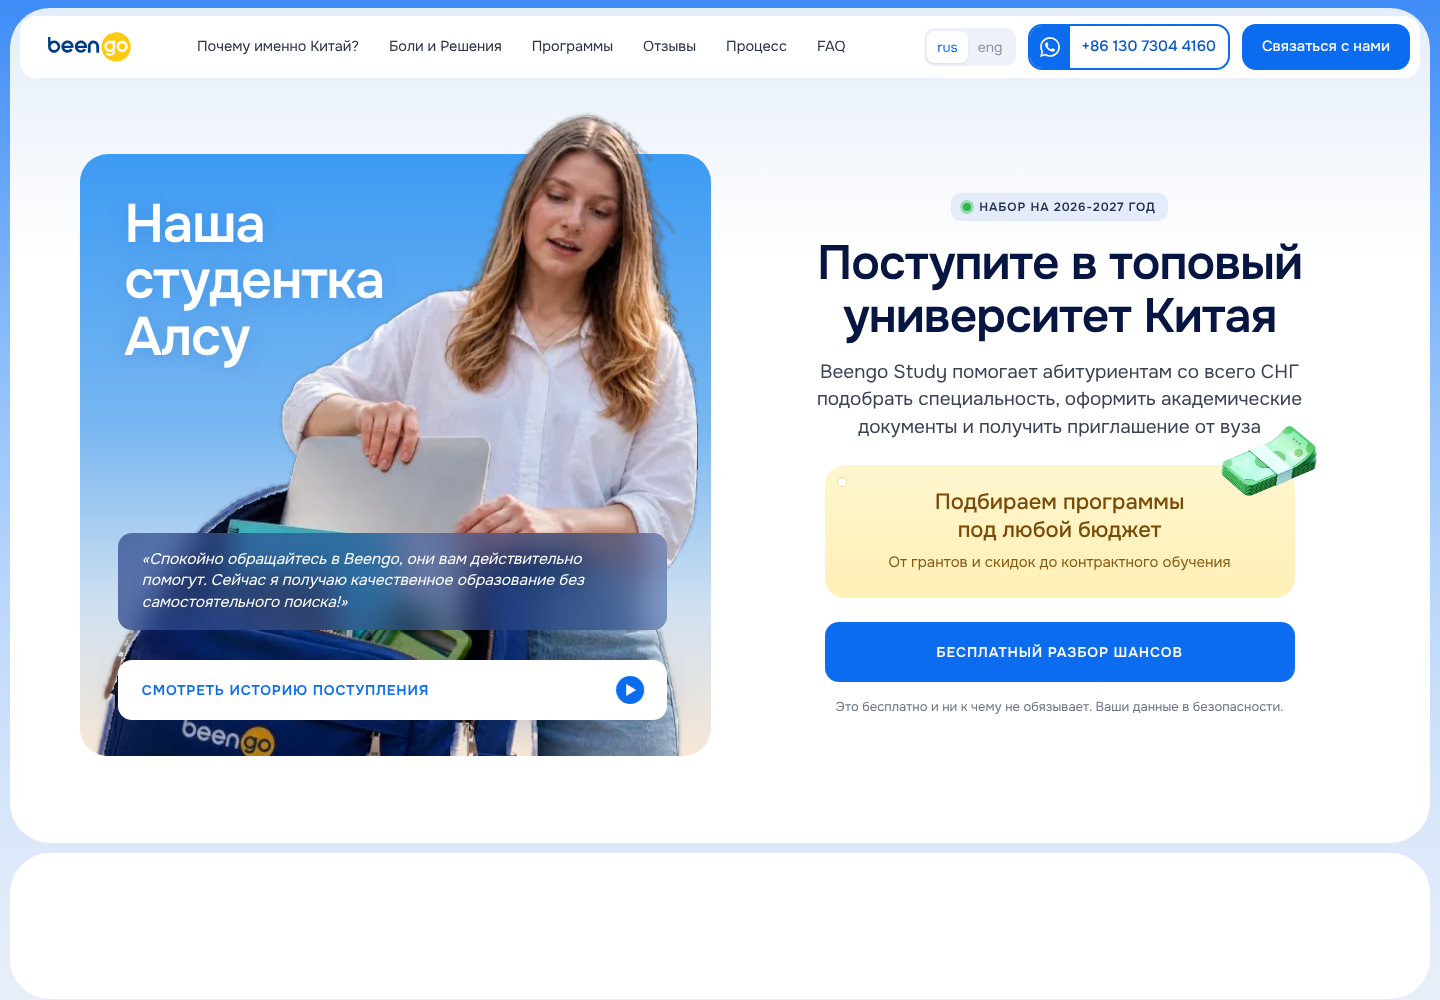
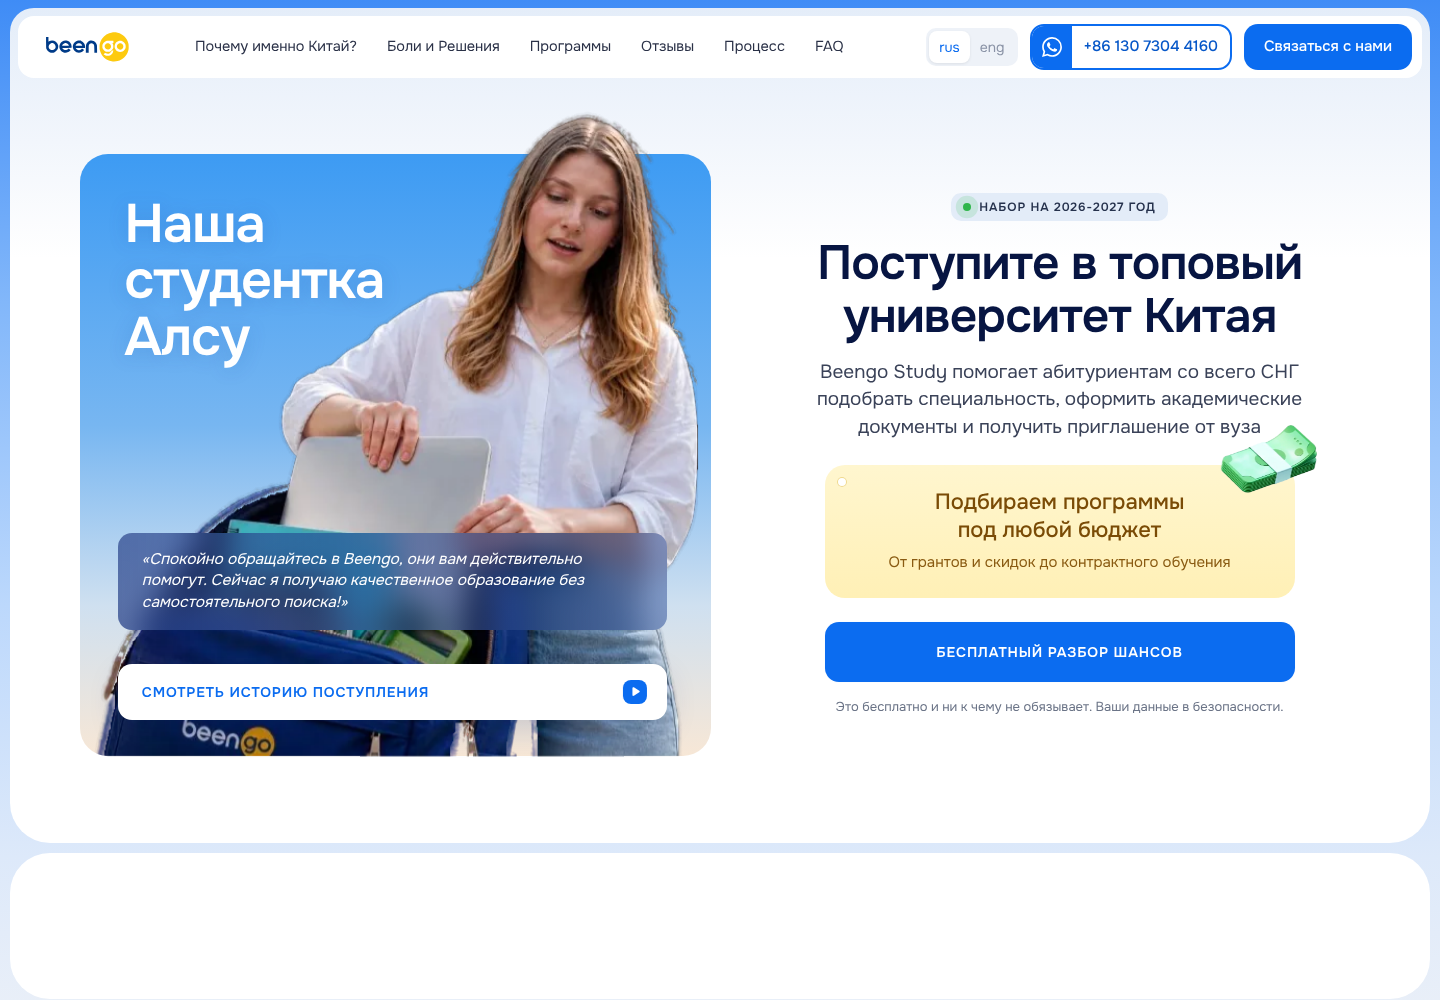
Concentric hero radius, h1 two lines, tablet Alsu fix, directional card animations, original SVG prints
Claude-Session: https://claude.ai/code/session_01DveQThDXrjAqWsCdBVYsEN

diff --git a/index.html b/index.html
@@ -761,7 +761,7 @@ body{background:#e9eff8}
 /* Узор на фоне шапки карточки шага (SVG из макета) */
 .step-head.pat{background-color:#1e63ff;background-image:none;isolation:isolate}
 .step-head.pat::before{content:"";position:absolute;inset:0;border-radius:inherit;background:center/cover no-repeat;z-index:-1;pointer-events:none}
-.step-head.pat1::before{background-image:url(assets/opt/step-bg.webp)}
+.step-head.pat1::before{background-image:url(assets/step-bg.svg)}
 
 /* Процесс: меньше синей рамки вокруг тёмного фрейма */
 #process.sec{padding:8px 0}
@@ -1462,7 +1462,7 @@ h1,h2,.h2,.why .h2,.pains .h2,.checklist .h2{font-weight:600!important}
 @media (max-width:680px){.fin .fbtn{border-radius:8px 8px 20px 20px!important}.fin-in{border-radius:20px 20px 8px 8px!important}}
 
 /* узор-принт на фоне карточки «Гранты» */
-.fin:nth-child(1) .fin-in::before{content:"";position:absolute;inset:0;background:url(assets/opt/fin-print.webp) center top/cover no-repeat;z-index:-1;pointer-events:none}
+.fin:nth-child(1) .fin-in::before{content:"";position:absolute;inset:0;background:url(assets/fin-print.svg) center top/cover no-repeat;z-index:-1;pointer-events:none}
 .fin:nth-child(1) .fin-in > *{position:relative}
 .fin:nth-child(1) .fin-in > .fin-cap{position:relative}
 .fin-tassel{filter:none}
@@ -1516,8 +1516,8 @@ h1,h2,.h2,.why .h2,.pains .h2,.checklist .h2{font-weight:600!important}
 
 /* принты на фоне жёлтой и красной карточек */
 .fin.y .fin-in::before,.fin.r .fin-in::before{content:"";position:absolute;inset:0;background:center top/cover no-repeat;z-index:-1;pointer-events:none}
-.fin.y .fin-in::before{background-image:url(assets/opt/fin-print-y.webp)}
-.fin.r .fin-in::before{background-image:url(assets/opt/fin-print-r.webp)}
+.fin.y .fin-in::before{background-image:url(assets/fin-print-y.svg)}
+.fin.r .fin-in::before{background-image:url(assets/fin-print-r.svg)}
 
 /* шаги: заголовок по центру */
 .process-wrap .h2{text-align:center;margin-inline:auto;max-width:900px}
@@ -1870,7 +1870,7 @@ h1,h2,.h2,.why .h2,.pains .h2,.checklist .h2{font-weight:600!important}
 /* появление без размытия на телефоне (iOS не всегда отрисовывает размытие больших блоков) */
 @media (max-width:980px){.reveal{filter:none!important}}
 /* «Поступать самому»: принт из макета на фоне */
-.side.bad{background:#fdf1f1 url(assets/opt/bad-print.webp) right top/min(100%,660px) auto no-repeat!important}
+.side.bad{background:#fdf1f1 url(assets/bad-print.svg) right top/min(100%,660px) auto no-repeat!important}
 /* деньги: без тени */
 .budget img{filter:none!important}
 /* первый экран: белый начинается раньше, до описания */
@@ -1891,8 +1891,8 @@ h1,h2,.h2,.why .h2,.pains .h2,.checklist .h2{font-weight:600!important}
 
 /* ===== Пакет правок 6 ===== */
 /* принт в «С Beengo Study», оба принта крупнее */
-.side.good{background:url(assets/opt/good-print.webp) left top/120% auto no-repeat,radial-gradient(120% 90% at 70% 10%,#3f8cff 0%,#1559e6 45%,#0c3fb3 100%)!important}
-.side.bad{background:#fdf1f1 url(assets/opt/bad-print.webp) right top/120% auto no-repeat!important}
+.side.good{background:url(assets/good-print.svg) left top/120% auto no-repeat,radial-gradient(120% 90% at 70% 10%,#3f8cff 0%,#1559e6 45%,#0c3fb3 100%)!important}
+.side.bad{background:#fdf1f1 url(assets/bad-print.svg) right top/120% auto no-repeat!important}
 @media (max-width:680px){.side.good{background-size:200% auto,auto!important}.side.bad{background-size:200% auto!important}}
 /* пункты сравнения: плотнее межстрочный интервал */
 .item b{line-height:1.2!important}
@@ -2068,6 +2068,35 @@ html,body{overflow-x:clip!important}
 
 .ab-text .ab-eyebrow{align-self:flex-start}
 .story-top h3{color:#3a2405!important}
+
+/* ===== Пакет правок 10 ===== */
+/* первый экран: скругление панели концентрично шапке (отступ 8px со всех сторон) */
+.hero{padding-top:8px!important}
+.hero-panel{width:calc(100% - 20px)!important;border-radius:24px 24px 40px 40px!important}
+.header{padding-top:16px!important}
+.header .container{width:calc(100% - 36px)!important;max-width:none!important}
+.header .nav{border-radius:16px!important}
+@media (max-width:680px){
+  .hero-panel{width:calc(100% - 16px)!important;border-radius:24px 24px 28px 28px!important}
+  .header .container{width:calc(100% - 32px)!important}
+}
+/* Алсу на планшете: карточка фиксированной пропорции, фото по правому краю */
+@media (min-width:681px) and (max-width:980px){
+  .hero-card{max-width:560px!important;width:100%;margin:24px auto 0!important;aspect-ratio:555/530!important;height:auto!important}
+  .hero-clip{top:-7%!important}
+  .hero-clip img{height:100%!important;right:0!important;left:auto!important}
+}
+/* анимации карточек при прокрутке */
+.reveal.from-left{transform:translateX(-60px) rotate(-1.5deg)}
+.reveal.from-right{transform:translateX(60px) rotate(1.5deg)}
+.reveal.pop{transform:translateY(40px) scale(.92)}
+.reveal.from-left.in,.reveal.from-right.in,.reveal.pop.in{transform:none}
+.item{opacity:0;transition:opacity .6s cubic-bezier(.2,.7,.2,1),transform .6s cubic-bezier(.2,.7,.2,1);transition-delay:calc(var(--ii,0)*110ms + .15s)}
+.side.bad .item{transform:translateX(-36px)}
+.side.good .item{transform:translateX(36px)}
+.side.in-view .item{opacity:1;transform:none}
+@media (prefers-reduced-motion:reduce){.item{opacity:1!important;transform:none!important}}
+@media (min-width:681px) and (max-width:980px){.hero-card h2{text-align:left!important;left:7%!important}}
 </style>
 </head>
 <body>
@@ -2109,7 +2138,7 @@ html,body{overflow-x:clip!important}
       </div>
       <div class="hero-text reveal">
         <span class="tag">НАБОР НА 2026-2027 ГОД</span>
-        <h1>Поступите в топовый университет Китая</h1>
+        <h1>Поступите в топовый<br>университет Китая</h1>
         <p>Beengo Study помогает абитуриентам со всего СНГ подобрать специальность, оформить академические документы и получить приглашение от вуза</p>
         <div class="budget">
           <img src="assets/opt/money-hq.webp" alt="" width="333" height="235">
@@ -2823,6 +2852,13 @@ $$('.art').forEach(c=>c.addEventListener('click',e=>{if(e.target.closest('a'))re
 (()=>{if(matchMedia('(prefers-reduced-motion:reduce)').matches)return;const els=$$('.side .deco,.folder,.globe img,.hero-clip img');els.forEach(e=>e.classList.add('para'));let raf=0;
   const t=()=>{raf=0;const vh=innerHeight;els.forEach(e=>{const r=e.getBoundingClientRect();if(r.bottom<0||r.top>vh)return;const k=((r.top+r.height/2)-vh/2)/vh;const amp=e.closest('.hero-clip')?10:e.closest('.globe')?16:22;e.style.transform=`translate3d(0,${(-k*amp).toFixed(1)}px,0)`})};
   addEventListener('scroll',()=>{if(!raf)raf=requestAnimationFrame(t)},{passive:true});t();})();
+
+// направленные появления карточек
+(()=>{const lr=(sel)=>$$(sel).forEach(g=>[...g.children].forEach((c,i)=>{if(!c.classList.contains('reveal'))return;c.classList.add(i%2?'from-right':'from-left')}));
+  lr('.why-grid');lr('.ab-cards');lr('.doc-grid');
+  $$('.prog-grid > .reveal,.art-grid > .reveal,.stats > .reveal').forEach(c=>c.classList.add('pop'));
+  $$('.side').forEach(sd=>{$$('.item',sd).forEach((it,k)=>it.style.setProperty('--ii',k));
+    const io=new IntersectionObserver(es=>es.forEach(e=>{if(e.isIntersecting){sd.classList.add('in-view');io.unobserve(sd)}}),{threshold:.15});io.observe(sd)});})();
 // модалка
 const modal=$('#modal');
 $$('[data-open]').forEach(b=>b.addEventListener('click',e=>{e.preventDefault();
